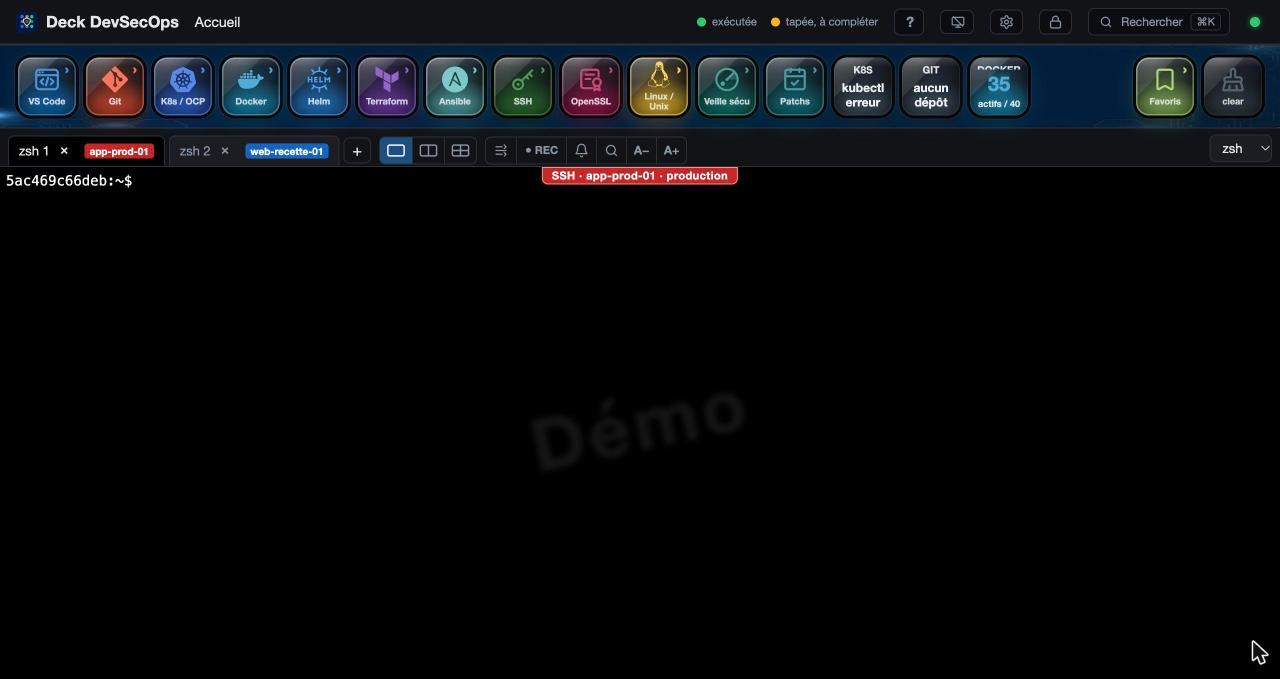
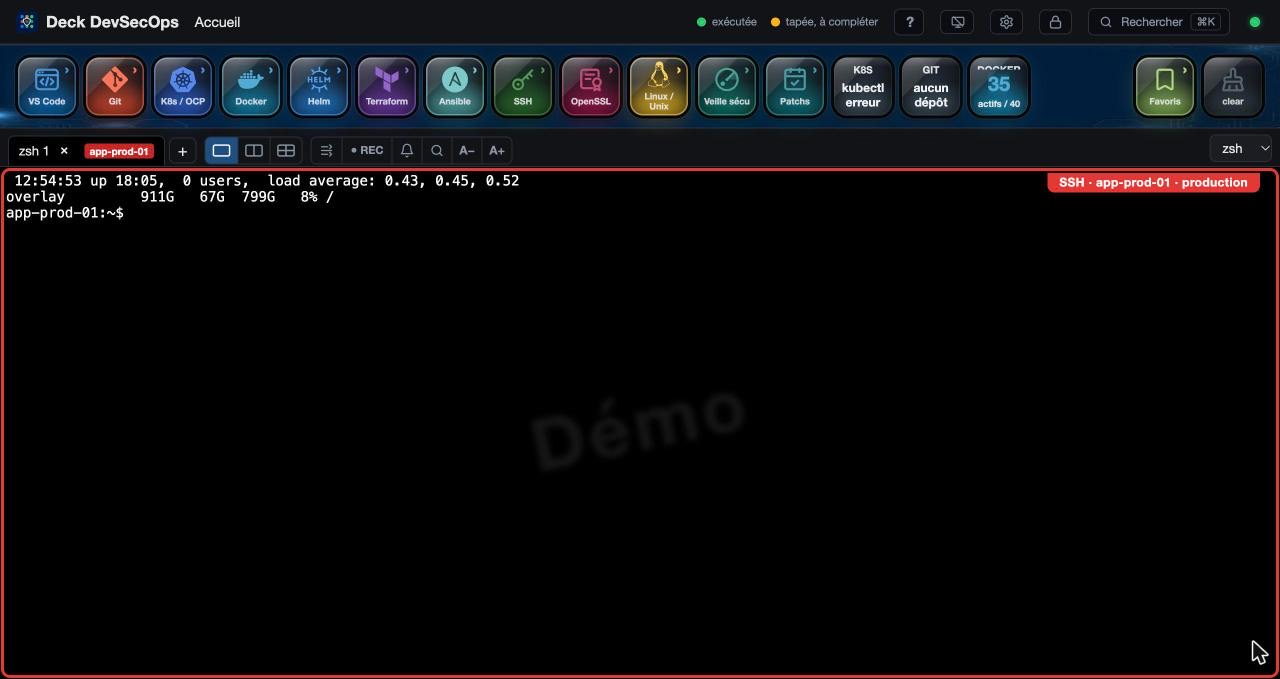
Terminal connecté : cadre de couleur et étiquette accrochée au terminal
- Cadre autour du terminal connecté (rouge en production, bleu sinon), dessiné dans la
  marge : ni texte recouvert ni redimensionnement
- Étiquette en haut du cadre « SSH · VM · environnement » (vue simple) ; vue partagée :
  cadre et étiquette de chaque écran dans la même couleur ; remplace le bandeau centré
- docs/04 et captures ; README

Changed region(s): [[0.0, 0.1856, 1.0, 1.0]]

diff --git a/public/app.js b/public/app.js
@@ -1561,17 +1561,7 @@ function updateScreensBanner() {
     screens.classList.toggle("prod", Boolean(prod));
     const parts = [];
     if (prod) parts.push(Object.assign(document.createElement("span"), { className: "banner-prod", textContent: `PRODUCTION · ${prod}` }));
-    // Terminal actif connecté à une machine : son nom (VM de l'inventaire, sinon l'hôte), rouge en production
-    // (vue partagée : chaque écran affiche déjà sa machine dans son coin, le bandeau la masquerait)
-    const host = layout().size === 1 ? remoteName(state.active) : null;
-    if (host && state.remoteTargets[state.active]?.dest) {
-        const t = state.remoteTargets[state.active];
-        parts.push(Object.assign(document.createElement("span"), {
-            className: `banner-host${t.env === "production" ? " prod" : ""}`,
-            textContent: `${state.remote[state.active] === "wsl" ? "WSL" : "SSH"} · ${host}${t.env ? ` · ${t.env}` : ""}`,
-            title: t.dest
-        }));
-    }
+    // Machine connectée : cadre et étiquette sur le terminal lui-même (markRemoteTabs), pas dans ce bandeau
     const recorded = visibleTerms().filter((id) => state.rec?.has(id)).length;
     if (recorded) parts.push(Object.assign(document.createElement("span"), { className: "banner-rec", textContent: recorded > 1 ? `● REC · ${recorded} terminaux` : "● REC" }));
     if (state.broadcast) {
@@ -2733,8 +2723,11 @@ function markRemoteTabs() {
         t.tab.classList.toggle("remote-host", Boolean(target?.dest));
         // Vue partagée : l'étiquette du coin de l'écran donne aussi la machine (« zsh 2 · app-prod-01 »)
         t.screen.dataset.title = name ? `${t.title ?? t.defaultTitle} · ${name}` : t.title ?? t.defaultTitle;
-        t.screen.classList.toggle("remote-host", Boolean(target?.dest));
+        t.screen.classList.toggle("remote-host", Boolean(name));
         t.screen.classList.toggle("remote-prod", target?.env === "production");
+        // Étiquette accrochée au cadre (vue simple) : « SSH · app-prod-01 · production »
+        if (name) t.screen.dataset.remoteLabel = `${state.remote[sid] === "wsl" ? "WSL" : "SSH"} · ${name}${target?.env ? ` · ${target.env}` : ""}`;
+        else delete t.screen.dataset.remoteLabel;
         if (name) {
             t.tab.dataset.remote = name.length > 22 ? `${name.slice(0, 21)}…` : name;
             t.tab.title = `${state.remote[sid] === "wsl" ? "WSL" : "Connecté en ssh"} : ${target?.dest ?? "?"}${target?.vm ? ` · VM ${target.vm}${target.env ? ` (${target.env})` : ""}` : ""}`;

diff --git a/public/style.css b/public/style.css
@@ -1538,3 +1538,17 @@ input[type="date"]::-webkit-calendar-picker-indicator:hover, input[type="datetim
 #screens.grid .screen.remote-host::after { color: #fff; background: #1565c0; }
 #screens.grid .screen.remote-prod::after { color: #fff; background: #c62828; }
 #screens.grid .screen.remote-prod { border-color: color-mix(in srgb, #c62828 70%, transparent); }
+/* Terminal connecté à une machine : cadre de couleur (bleu, rouge en production) et étiquette accrochée en haut */
+.screen.remote-host { --remote-c: #1e88e5; outline: 3px solid var(--remote-c); outline-offset: 2px; border-radius: 4px; }
+.screen.remote-prod { --remote-c: #e53935; }
+#screens.grid .screen.remote-host { outline-offset: 1px; border-color: var(--remote-c); }
+#screens:not(.grid) .screen.remote-host::after {
+    content: attr(data-remote-label);
+    position: absolute; top: 0; right: 14px; z-index: 6;
+    padding: 2px 12px 3px; border-radius: 0 0 7px 7px;
+    font-size: 12px; font-weight: 700; letter-spacing: .03em; color: #fff;
+    background: var(--remote-c); box-shadow: 0 2px 6px rgba(0, 0, 0, .35);
+    pointer-events: none;
+}
+#screens.grid .screen.remote-host::after { color: #fff; background: var(--remote-c); font-weight: 700; }
+.share-mode #screens:not(.grid) .screen.remote-host::after { filter: blur(4px); }

diff --git a/README.md b/README.md
@@ -205,7 +205,7 @@ Après une modification de `config.jsonc` ou `paths.json`, redémarrer le serveu
 
 ## Patchs des VMs
 
-Rubrique **Patchs** (à cocher dans Réglages › Rubriques) : inventaire de tes VMs (nom, hôte SSH, clé SSH pour `ssh -i`, environnement, tags libres (`linux, dmz, critique`), description, dernier et prochain patch, fréquence) dans `patches.json` (hors Git, sauvegardé, inclus dans la configuration complète). Le **voyant patchs** affiche la VM la plus urgente (J-3, J, J+2 en retard) : vert, **orange à 7 jours ou moins**, **rouge à J-1, le jour même ou en retard** ; alertes une fois par seuil comme pour les certificats. **Patché** met le dernier patch à aujourd'hui et recalcule le prochain avec la fréquence (noté dans le journal). Touches **ssh VM** et **ssh -i VM** (clé puis hôte, listes réelles) ; bouton **SSH** de l'inventaire avec la clé de la VM si elle est renseignée. Touches de vérification sur la VM après un ssh : mises à jour en attente (apt / dnf), sécurité, redémarrage requis, noyau, historique, correctifs Windows. **Import en masse** depuis un CSV (Excel : séparateur `;`, dates JJ/MM/AAAA ; colonnes nom, hote, cle, environnement, dernier_patch, prochain_patch, frequence, tags, description) avec aperçu avant confirmation (ajout ou mise à jour par nom, jamais de suppression), **export CSV** réimportable et modèle à remplir. **Terminal connecté à une VM** : l'onglet, le bandeau et l'étiquette de l'écran (vue partagée) affichent le nom de la VM de l'inventaire (sinon l'hôte), en rouge pour la production ; seule la destination est lue dans la commande ssh. Inventaire lisible (lignes alternées, ligne survolée, liseré d'urgence). **Filtres** par environnement, par tags (combinés) et par **état** (en retard, sous 7 j, sécurité en attente, reboot requis, jamais vérifiée, vérification en échec), avec le nombre de VMs ; **tri** par urgence, nom, environnement, dates, MAJ en attente ou dernière vérification (menu, ou clic sur les titres de colonnes ; retenu). **Dupliquer** une VM : formulaire pré-rempli, nom suivant libre (`app-prod-01` → `app-prod-02`). Les touches qui demandent un hôte (**ssh VM**, **ssh -i VM**, rubrique SSH) proposent **les VMs de l'inventaire en tête** (nom et environnement affichés), la clé de la VM étant reprise pour `ssh -i`. **Vérifier** / **Vérifier tout** : ssh par clé, sans mot de passe (`BatchMode`, clé d'hôte jamais acceptée à ta place), en **lecture seule** : mises à jour en attente dont sécurité (apt, dnf/yum ; zypper, apk), redémarrage requis, OS, noyau ; résultat gardé dans l'inventaire. Détails : [docs/13-patchs.md](docs/13-patchs.md).
+Rubrique **Patchs** (à cocher dans Réglages › Rubriques) : inventaire de tes VMs (nom, hôte SSH, clé SSH pour `ssh -i`, environnement, tags libres (`linux, dmz, critique`), description, dernier et prochain patch, fréquence) dans `patches.json` (hors Git, sauvegardé, inclus dans la configuration complète). Le **voyant patchs** affiche la VM la plus urgente (J-3, J, J+2 en retard) : vert, **orange à 7 jours ou moins**, **rouge à J-1, le jour même ou en retard** ; alertes une fois par seuil comme pour les certificats. **Patché** met le dernier patch à aujourd'hui et recalcule le prochain avec la fréquence (noté dans le journal). Touches **ssh VM** et **ssh -i VM** (clé puis hôte, listes réelles) ; bouton **SSH** de l'inventaire avec la clé de la VM si elle est renseignée. Touches de vérification sur la VM après un ssh : mises à jour en attente (apt / dnf), sécurité, redémarrage requis, noyau, historique, correctifs Windows. **Import en masse** depuis un CSV (Excel : séparateur `;`, dates JJ/MM/AAAA ; colonnes nom, hote, cle, environnement, dernier_patch, prochain_patch, frequence, tags, description) avec aperçu avant confirmation (ajout ou mise à jour par nom, jamais de suppression), **export CSV** réimportable et modèle à remplir. **Terminal connecté à une VM** : cadre de couleur autour du terminal (rouge en production, bleu sinon), étiquette accrochée au cadre (« SSH · app-prod-01 · production ») et nom sur l'onglet : VM de l'inventaire, sinon l'hôte ; seule la destination est lue dans la commande ssh. Inventaire lisible (lignes alternées, ligne survolée, liseré d'urgence). **Filtres** par environnement, par tags (combinés) et par **état** (en retard, sous 7 j, sécurité en attente, reboot requis, jamais vérifiée, vérification en échec), avec le nombre de VMs ; **tri** par urgence, nom, environnement, dates, MAJ en attente ou dernière vérification (menu, ou clic sur les titres de colonnes ; retenu). **Dupliquer** une VM : formulaire pré-rempli, nom suivant libre (`app-prod-01` → `app-prod-02`). Les touches qui demandent un hôte (**ssh VM**, **ssh -i VM**, rubrique SSH) proposent **les VMs de l'inventaire en tête** (nom et environnement affichés), la clé de la VM étant reprise pour `ssh -i`. **Vérifier** / **Vérifier tout** : ssh par clé, sans mot de passe (`BatchMode`, clé d'hôte jamais acceptée à ta place), en **lecture seule** : mises à jour en attente dont sécurité (apt, dnf/yum ; zypper, apk), redémarrage requis, OS, noyau ; résultat gardé dans l'inventaire. Détails : [docs/13-patchs.md](docs/13-patchs.md).
 
 **Échéances** (bouton Calendrier, ou ⌘K) : calendrier du mois des prochains patchs et des expirations de certificats, liste du retard et des 60 prochains jours, **export .ics** pour Outlook / Google Agenda (rappel 3 j avant en production, 1 j sinon ; réimporter met à jour sans dupliquer). **Synthèse du client** (⌘K) : état de la mission (contexte kubectl, certificats et VMs par environnement, à traiter, échéances à 30 jours, actions en production des 7 derniers jours), à copier en Markdown ou télécharger. Détails : [docs/14-echeances-et-synthese.md](docs/14-echeances-et-synthese.md).
 

diff --git a/docs/04-ssh-et-serveurs.md b/docs/04-ssh-et-serveurs.md
@@ -24,11 +24,11 @@ Si tu utilises toujours la même clé pour un hôte, écris-la une fois dans `~/
 
 Dès qu'un terminal est connecté en **ssh** (ou **wsl**), le deck affiche la machine :
 
+- **un cadre de couleur** autour du terminal : **rouge** si la VM est en **production**, bleu sinon ;
+- **une étiquette accrochée en haut du cadre** : « SSH · app-prod-01 · production » (en vue partagée, 2 ou 4
+  terminaux : « zsh 2 · web-recette-01 » dans le coin de chaque écran) ;
 - **sur l'onglet** : le nom de la **VM de l'inventaire** ([Patchs](13-patchs.md)) si l'hôte y figure, sinon le nom
-  de l'hôte ; en **rouge** si la VM est en **production**, en bleu sinon ; au survol, la destination complète ;
-- **dans le bandeau** au-dessus du terminal : « SSH · app-prod-01 · production » ;
-- **en vue partagée** (2 ou 4 terminaux) : dans l'étiquette du coin de chaque écran (« zsh 2 · web-recette-01 »),
-  avec un cadre rouge pour la production.
+  de l'hôte, dans la même couleur ; au survol, la destination complète.
 
 ![Deux terminaux connectés, vue partagée](img/ssh-vm-partage.jpg)
 
